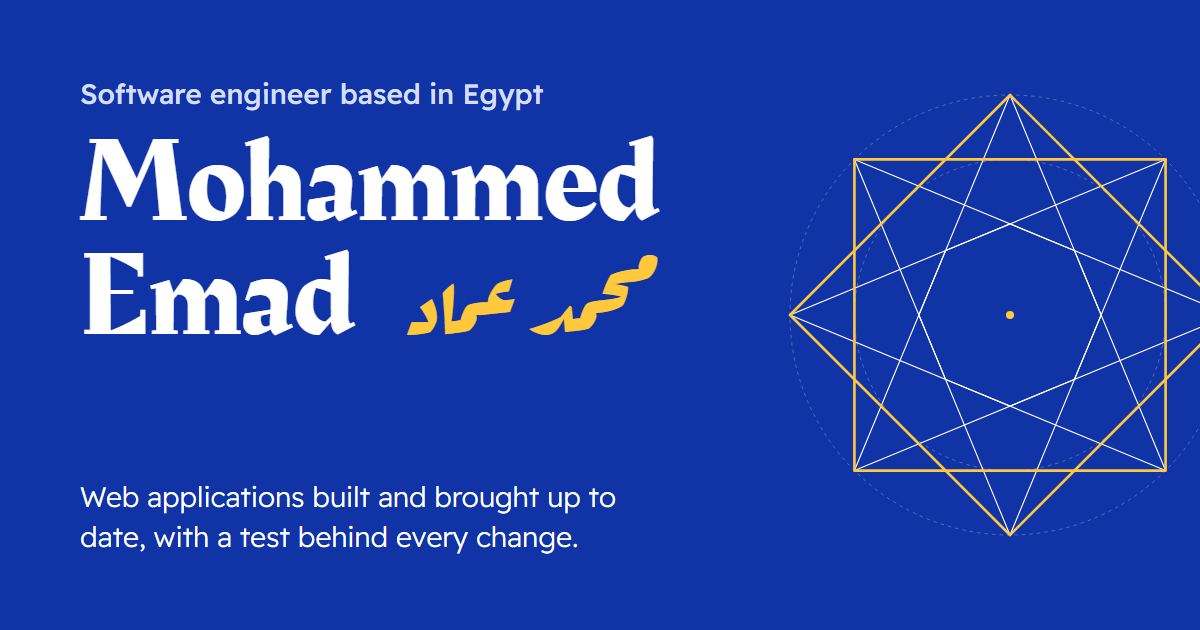
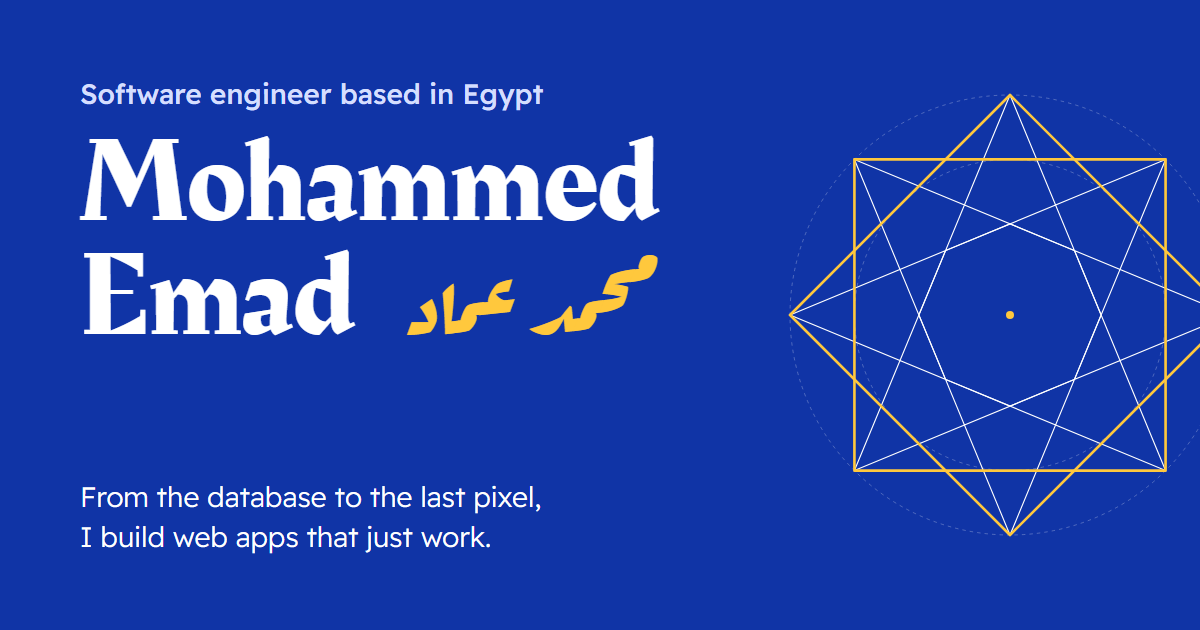
F44: The link preview says the headline of the home page (#51)
* F44: The link preview says the headline of the home page

The picture shown when a link to the site is posted said "Web
applications built and brought up to date, with a test behind every
change." under the name. That line was typed into
tools/build/og-image.mjs, so it stayed when the home page took its new
headline in F26.

The page that is photographed is now made by tools/build/share-page.mjs
from content/profile.json: the role line, the name in two scripts and
the headline, in two lines after its first comma as on the home page.
Text from the profile is escaped. og-image.mjs only photographs it.
public/og-image.png is drawn again. Moving the page into its own module
first, with the old line, gave a picture identical to the byte.

Tool test: the page says the name, the Arabic name, the role line and
the headline of the profile, and a headline with & or < comes out
escaped. Both failed with the old line. The finding in the tracker
became this item.

Closes #50

* F44: Tracker row and changelog line with the pull request number

Changed region(s): [[0.0617, 0.754, 0.5242, 0.8746]]

diff --git a/docs/tracking/CODE-TRACKER.md b/docs/tracking/CODE-TRACKER.md
@@ -82,6 +82,7 @@ issue and pull request numbers do not link here. From D4 on, the numbers are tho
 | F41 | #44 | Smaller and earlier work as a register | Eight equal cells with the same star in every corner and a hover on cells that are not links; their names in the display face competed with the main work since F40 | `feat/f41-register` | #45 | done |
 | F42 | #46 | Name and email side by side in the contact form on a wide screen | Each field took the full width of its column, 924 px at 1920 for a name, which made the form taller than the text beside it | `feat/f42-form-pair` | #47 | done |
 | F43 | #48 | The phone menu fills the screen, and touch screens see no keyboard hints | The open menu ended in the middle of a phone screen over the first screen; the palette named arrow keys, Enter and Esc on touch screens | `feat/f43-phone-menu` | #49 | done |
+| F44 | #50 | The link preview says the headline of the home page | The share picture still said the line of before F26 under the name, typed into its script, while the home page had a new headline | `feat/f44-share-line` | #51 | done |
 
 ## D - docs and developer setup
 
@@ -103,9 +104,6 @@ New findings that are outside the item being worked on go here first, then becom
   and a 1.5 kB chunk) since F34, which took 12 B off (F33 had added 170 B); 640 B are left. Most of the growth came
   with React DOM 19.3 in A7, about 10.5 kB larger in the bundle than 19.1. The next change that adds JavaScript
   reaches the budget; decide then whether to trim or to raise it.
-- The picture of link previews (`public/og-image.png`, F36) says "Web applications built and brought up to date, with
-  a test behind every change." under the name, while the home page has said "From the database to the last pixel, I
-  build web apps that just work." since F26. The headline could take its place there (`tools/build/og-image.mjs`).
 - The picture column of `npm run weight` depends on timing. Its scroll (steps of three quarters of a screen every
   120 ms) is faster than the pictures below the first screen load, so it counts two to five of the seven on the home
   page, differently from run to run (found in A7). Brought into view one by one, all seven load. A fix: bring each

diff --git a/CHANGELOG.md b/CHANGELOG.md
@@ -73,3 +73,4 @@ and do not link here.
 - F41: The smaller and earlier work is a register: one entry under another between hairlines, name, what it is and tools on one line, without a star or a hover (#45)
 - F42: On a wide screen the name and the email address of the contact form stand side by side, the message under them at full width (#47)
 - F43: The phone menu fills the screen with the sections in the display face; touch screens see no key hints in the palette or on the Search button (#49)
+- F44: The picture of link previews says the headline of the home page; its page is made from content/profile.json (#51)
